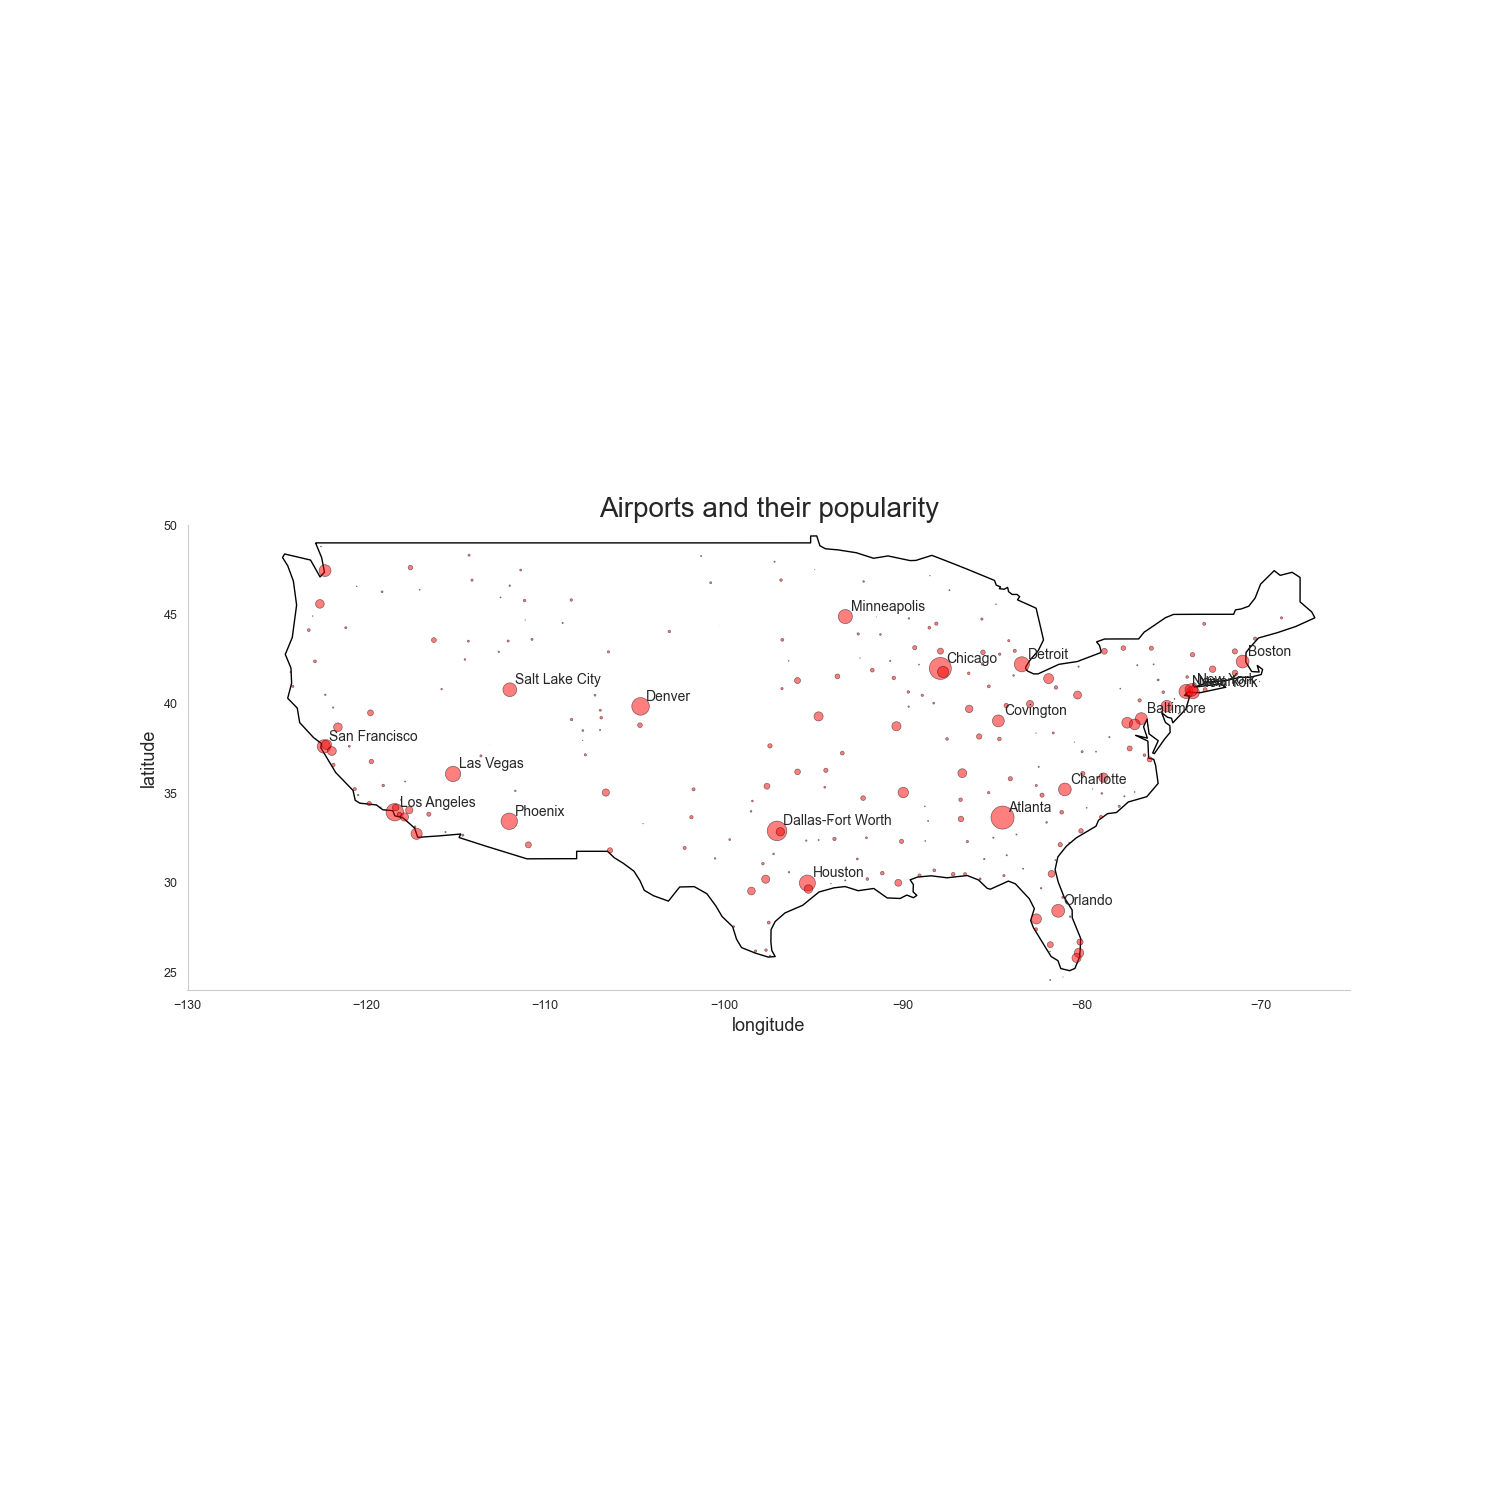
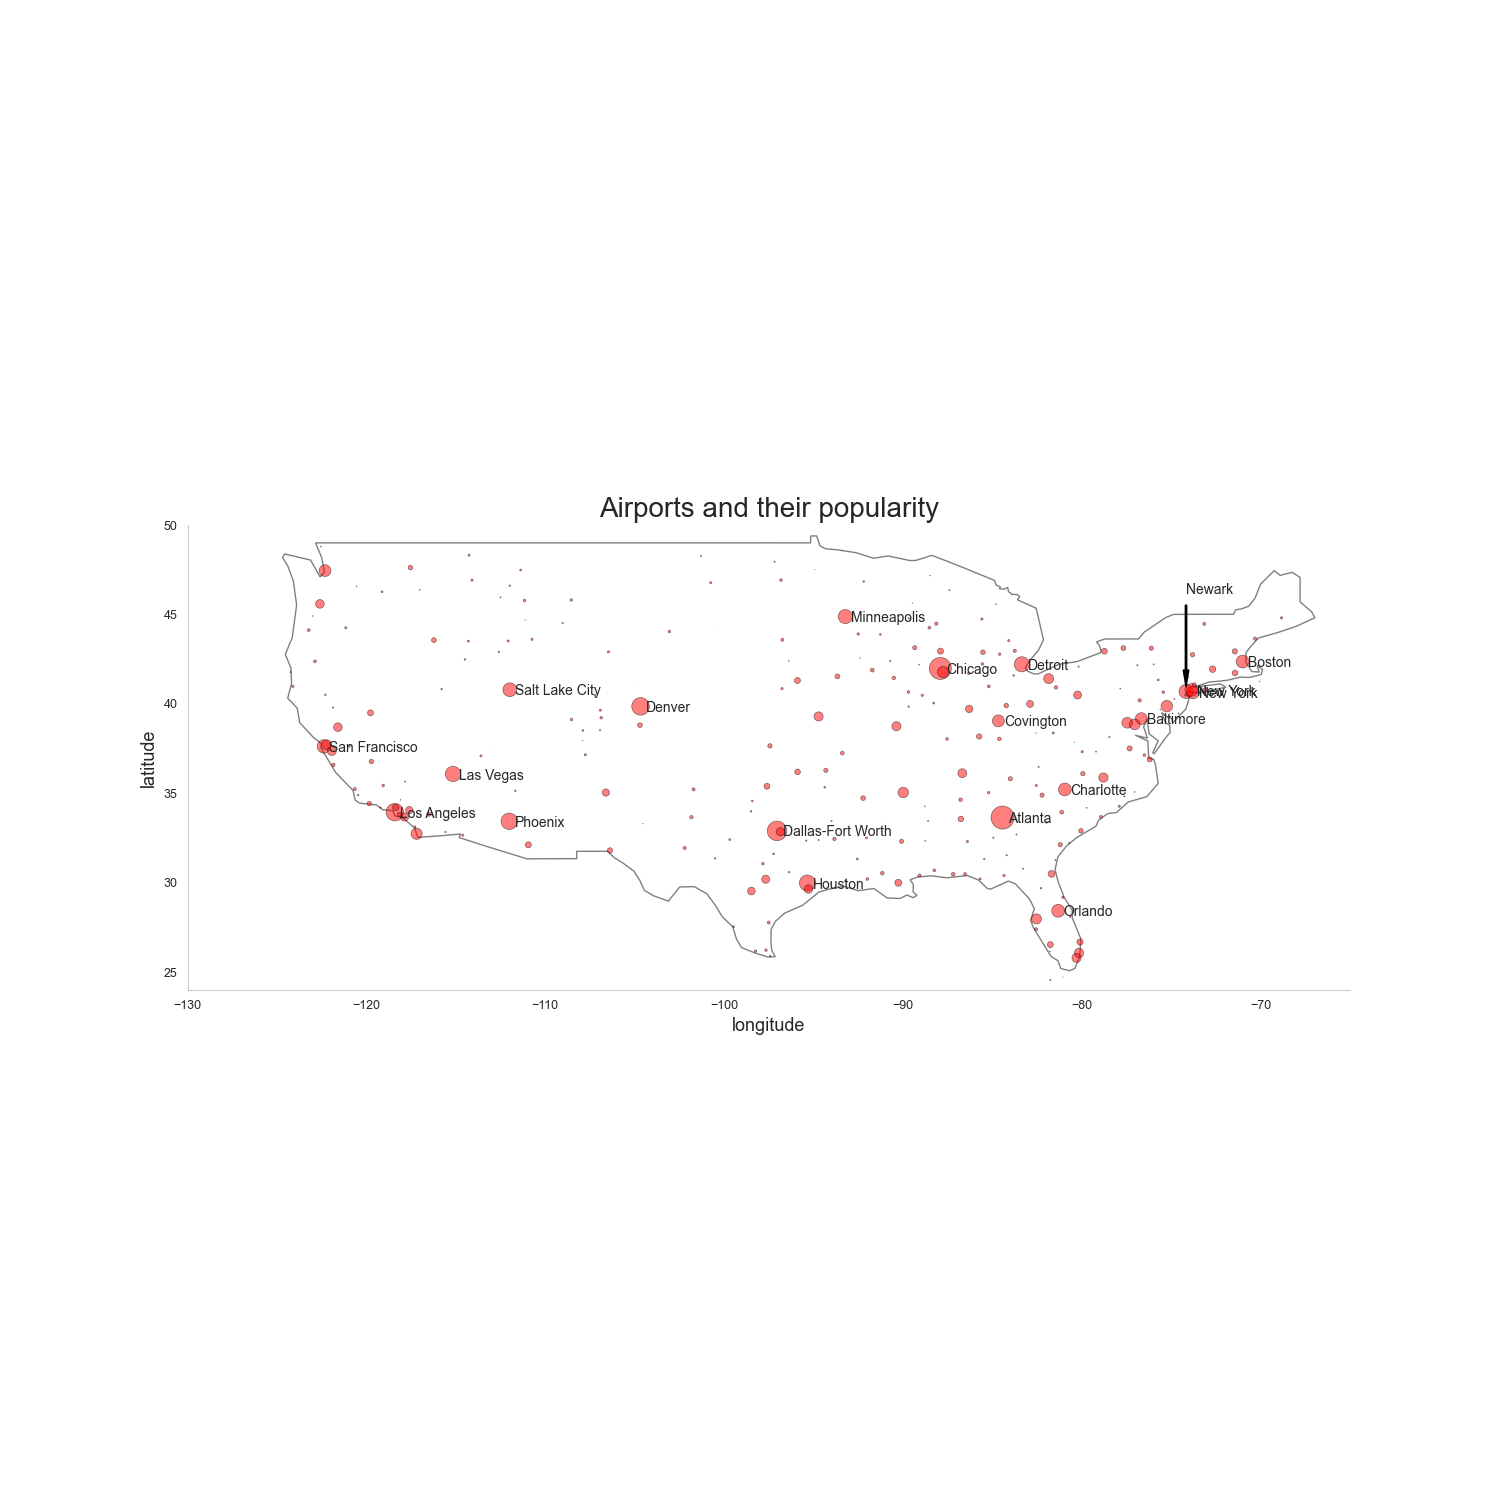
updated_tasks

diff --git a/src/utils/charts/generate_charts.py b/src/utils/charts/generate_charts.py
@@ -29,9 +29,9 @@ def generate_charts(years: str | list = "all", dir: str = None):
     """
     if dir is None:
         if isinstance(years, str):
-            dir = os.path.join(PLOTS_DIR, "plots", years)
+            dir = os.path.join(PLOTS_DIR, years)
         else:
-            dir = os.path.join(PLOTS_DIR, "plots", "_".join(years))
+            dir = os.path.join(PLOTS_DIR, "_".join(years))
     os.makedirs(dir, exist_ok=True)
 
     flights = load_flights(years, cols=REQUIRE)
@@ -587,7 +587,7 @@ def chart_11(flights: pd.DataFrame, dir: str):
 
     world = gpd.read_file(gpd.datasets.get_path("naturalearth_lowres"))
     usa = world[world["name"] == "United States of America"]
-    usa.plot(ax=ax, color="white", edgecolor="black")
+    usa.plot(ax=ax, color="white", edgecolor="black", alpha=0.5)
 
     points = gpd.GeoDataFrame(dt, geometry=gpd.points_from_xy(dt["long"], dt["lat"]))
 
@@ -615,7 +615,28 @@ def chart_11(flights: pd.DataFrame, dir: str):
 
     i = 0
     for x, y, label in zip(points["long"], points["lat"], points["city"]):
-        ax.annotate(label, xy=(x, y), xytext=(4, 4), textcoords="offset points")
+        if label == "Newark":  # it overlaps with more important NewYork
+            ax.annotate(
+                label,
+                xy=(x, y),
+                xytext=(0, 70),
+                textcoords="offset points",
+                arrowprops=dict(
+                    facecolor="black",
+                    shrink=0.05,
+                    width=1,
+                    headwidth=4,
+                    edgecolor="black",
+                ),
+            )
+        else:
+            ax.annotate(
+                label,
+                xy=(x, y),
+                xytext=(4, -4),
+                textcoords="offset points",
+            )
+
         i += 1
         if i == 20:
             break

diff --git a/tasks.md b/tasks.md
@@ -4,6 +4,20 @@ Done 🎉
     <li>Pipelines checking code formatting of python's files on pull request to master branch.</li>
     <li>Functions responsible for automatically downloading, extracting and loading data into memory.</li>
     <li>Basic eda</li>
+    <li>Charts - anwsers to tthe following:
+        <ul>
+            <li>Total Planned Flight Time for each Carrier</li>
+            <li>Max Departure and Arrival Delay for each Carrier</li>
+            <li>Number of Aircrafts in fleet of each Carrier</li>
+            <li>Cancelation Causes</li>
+            <li>Planned Flights over Time</li>
+            <li>Most popular routes</li>
+            <li>Total Delay Time for Each Month</li>
+            <li>Number of flights over hours</li>
+            <li>Flights Count for each Carrier chart</li>
+            <li>10 most popular Airports</li>
+        </ul>
+    </li>
 </ul>
 <br>
 Doing 🥸
@@ -12,7 +26,7 @@ Doing 🥸
 <br>
 Ideas 💡
 <ul>
-     <li>What plane model most delays are associated with?</li>
+    <li>What plane model most delays are associated with?<li>
     <li>What are the trends and patterns of flight delays and cancellations over time and across different carriers, airports, and routes?</li>
     <li>How does airline schedule padding affect consumer choice behavior?</li>
     <li>What are the best and worst times to fly to minimize delays?</li>

diff --git a/README.md b/README.md
@@ -7,7 +7,7 @@ Implementation of project performed in groups of 3. No strict tasks - the more s
 
 Used technologies:
 <ul>
-  <li>Python including libraries: selenium, pandas, seaborn, matplotlib, numpy</li>
+  <li>Python including libraries: selenium, pandas, geopandas, seaborn, matplotlib, numpy</li>
   <li>Sphinx for auto-documentation of python's code, according to <a href="https://www.sphinx-doc.org/en/master/usage/restructuredtext/basics.html">docstring markup</a></li>
   <li>Basic CI/CD pipelines for keeping python's code clean with black and auto-deployment of Sphinx</li>
 </ul>
